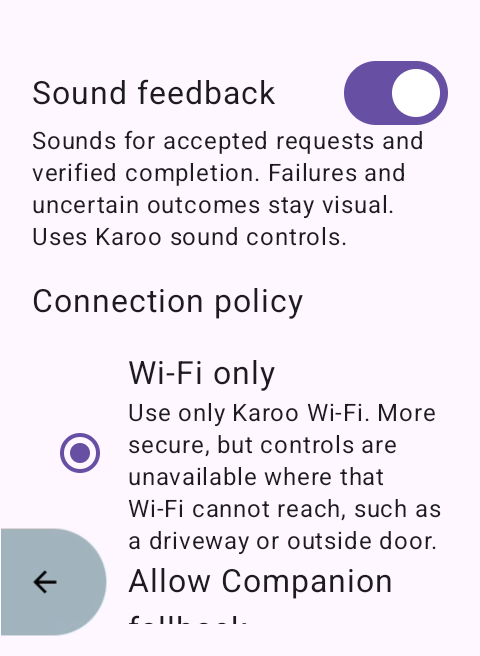
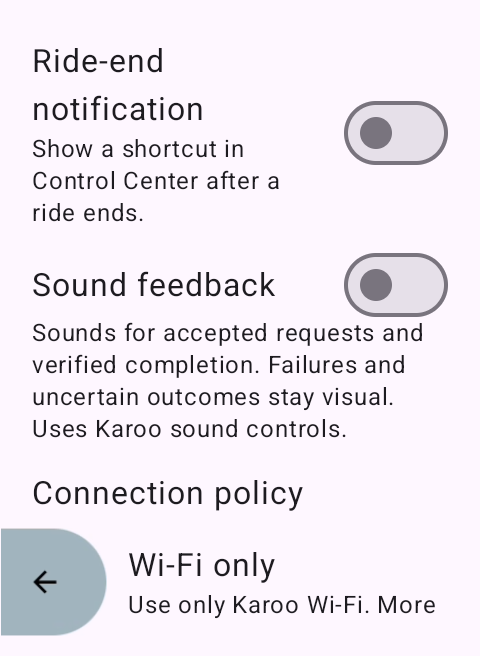
Open Home Assistant controls from a configurable ride-end notification (#32)
## Summary

After a ride ends, Karoo HASS posts a Control Center notification with
an **Open Karoo HASS** action that opens Quick Access with the existing
PIN protection. Manual pauses, auto-pauses, initial idle, and repeated
idle events do not trigger it.

A **Ride-end notification** Settings switch enables or disables future
reminders, defaults to on, and persists across restarts. The SDK's idle
event covers both saved and discarded rides; immediate banner
presentation and notification timing need physical-device validation.

## Screenshots

Updated Settings screen:

![Ride-end notification
setting](https://raw.githubusercontent.com/michalchecinski/karoo-hass-companion/b13cc49/screenshots/emulator-karoo-480x800/settings-connected-app-only.png)

## Verification

- `./gradlew ktlintCheck check assembleDebug` passed.
- Unit tests cover recording/paused-to-idle transitions, auto-pause and
resume, repeated idle events, reconnect resets, and settings defaults
and persistence.
- Verified the Settings layout and persistence of the off choice after
an app restart in an isolated 480×800 emulator.
- Screenshot capture regression checks passed (7 tests).
- Independent subagent review found no actionable issues.
- Physical Karoo testing remains pending: notification delivery, banner
presentation, save/summary timing, and opening Quick Access through the
notification with PIN protection. Device test steps are documented in
`docs/features/ride-end-notification.md`.

## Checklist
[…]

Changed region(s): [[0.0625, 0.061, 0.9375, 0.9451]]

diff --git a/app/src/main/kotlin/com/karoohass/extension/RideEndExtension.kt b/app/src/main/kotlin/com/karoohass/extension/RideEndExtension.kt
@@ -1,0 +1,68 @@
+package com.karoohass.extension
+
+import android.util.Log
+import com.karoohass.BuildConfig
+import com.karoohass.MainActivity
+import com.karoohass.R
+import com.karoohass.core.SettingsStore
+import io.hammerhead.karooext.KarooSystemService
+import io.hammerhead.karooext.extension.KarooExtension
+import io.hammerhead.karooext.models.RideState
+import io.hammerhead.karooext.models.SystemNotification
+import kotlinx.coroutines.CoroutineScope
+import kotlinx.coroutines.Dispatchers
+import kotlinx.coroutines.SupervisorJob
+import kotlinx.coroutines.cancel
+import kotlinx.coroutines.flow.first
+import kotlinx.coroutines.launch
+
+class RideEndExtension : KarooExtension("karoo-hass", BuildConfig.VERSION_NAME) {
+    private lateinit var karooSystem: KarooSystemService
+    private val detector = RideEndDetector()
+    private var consumerId: String? = null
+    private val scope = CoroutineScope(SupervisorJob() + Dispatchers.IO)
+
+    override fun onCreate() {
+        super.onCreate()
+        karooSystem = KarooSystemService(applicationContext)
+        val settingsStore = SettingsStore(applicationContext)
+        // Register once: the SDK retains consumers across service reconnects.
+        consumerId =
+            karooSystem.addConsumer<RideState>(
+                onError = { error ->
+                    detector.reset()
+                    Log.w("RideEndExtension", "Ride state subscription failed: $error")
+                },
+                onComplete = { detector.reset() },
+            ) { state ->
+                if (detector.onState(state)) {
+                    scope.launch {
+                        if (!settingsStore.settings.first().rideEndNotificationEnabled) return@launch
+                        val dispatched =
+                            karooSystem.dispatch(
+                                SystemNotification(
+                                    id = "karoo-hass-ride-ended",
+                                    message = getString(R.string.ride_ended_notification_message),
+                                    header = getString(R.string.app_name),
+                                    action = getString(R.string.ride_ended_notification_action),
+                                    actionIntent = MainActivity.ACTION_OPEN_QUICK_ACCESS,
+                                ),
+                            )
+                        if (!dispatched) Log.w("RideEndExtension", "Ride end notification could not be dispatched")
+                    }
+                }
+            }
+        karooSystem.connect { connected ->
+            if (!connected) detector.reset()
+        }
+    }
+
+    override fun onDestroy() {
+        scope.cancel()
+        consumerId?.let(karooSystem::removeConsumer)
+        consumerId = null
+        detector.reset()
+        karooSystem.disconnect()
+        super.onDestroy()
+    }
+}

diff --git a/app/src/test/kotlin/com/karoohass/extension/RideEndDetectorTest.kt b/app/src/test/kotlin/com/karoohass/extension/RideEndDetectorTest.kt
@@ -1,0 +1,51 @@
+package com.karoohass.extension
+
+import io.hammerhead.karooext.models.RideState
+import org.junit.Assert.assertFalse
+import org.junit.Assert.assertTrue
+import org.junit.Test
+
+class RideEndDetectorTest {
+    private val detector = RideEndDetector()
+
+    @Test
+    fun `startup and repeated idle never announce a ride`() {
+        repeat(3) { assertFalse(detector.onState(RideState.Idle)) }
+    }
+
+    @Test
+    fun `manual pause auto pause and resume do not announce a ride`() {
+        assertFalse(detector.onState(RideState.Recording))
+        assertFalse(detector.onState(RideState.Paused(auto = true)))
+        assertFalse(detector.onState(RideState.Recording))
+        assertFalse(detector.onState(RideState.Paused(auto = false)))
+        assertFalse(detector.onState(RideState.Recording))
+        assertTrue(detector.onState(RideState.Idle))
+        assertFalse(detector.onState(RideState.Idle))
+    }
+
+    @Test
+    fun `finishing from paused announces once for each ride`() {
+        repeat(2) {
+            assertFalse(detector.onState(RideState.Recording))
+            assertFalse(detector.onState(RideState.Paused(auto = false)))
+            assertTrue(detector.onState(RideState.Idle))
+            assertFalse(detector.onState(RideState.Idle))
+        }
+    }
+
+    @Test
+    fun `extension can join an already paused ride`() {
+        assertFalse(detector.onState(RideState.Paused(auto = true)))
+        assertTrue(detector.onState(RideState.Idle))
+    }
+
+    @Test
+    fun `reconnect at idle does not announce an old ride`() {
+        detector.onState(RideState.Recording)
+        detector.reset()
+        assertFalse(detector.onState(RideState.Idle))
+        assertFalse(detector.onState(RideState.Recording))
+        assertTrue(detector.onState(RideState.Idle))
+    }
+}

diff --git a/app/src/main/kotlin/com/karoohass/screens/MainScreen.kt b/app/src/main/kotlin/com/karoohass/screens/MainScreen.kt
@@ -375,6 +375,26 @@ private fun HomeAssistantIcon(
             }
         }
         if (state.settings.onboardingStep == OnboardingStep.COMPLETE) {
+            item {
+                Row(
+                    Modifier.fillMaxWidth().toggleable(
+                        value = state.settings.rideEndNotificationEnabled,
+                        role = androidx.compose.ui.semantics.Role.Switch,
+                        onValueChange = model::saveRideEndNotification,
+                    ),
+                    verticalAlignment = Alignment.CenterVertically,
+                    horizontalArrangement = Arrangement.spacedBy(12.dp),
+                ) {
+                    Column(Modifier.weight(1f)) {
+                        Text(stringResource(R.string.ride_ended_notification_setting))
+                        Text(stringResource(R.string.ride_ended_notification_description), style = MaterialTheme.typography.bodySmall)
+                    }
+                    androidx.compose.material3.Switch(
+                        checked = state.settings.rideEndNotificationEnabled,
+                        onCheckedChange = null,
+                    )
+                }
+            }
             item { SoundFeedbackSetting(state.settings.soundFeedbackEnabled, model::saveSoundFeedback) }
             item { Text("Connection policy") }
             item {

diff --git a/app/src/main/kotlin/com/karoohass/MainActivity.kt b/app/src/main/kotlin/com/karoohass/MainActivity.kt
@@ -12,6 +12,10 @@ import com.karoohass.screens.MainScreen
 import com.karoohass.theme.AppTheme
 
 class MainActivity : ComponentActivity() {
+    companion object {
+        const val ACTION_OPEN_QUICK_ACCESS = "com.karoohass.OPEN_QUICK_ACCESS"
+    }
+
     private val model by viewModels<MainViewModel>()
 
     override fun onCreate(savedInstanceState: Bundle?) {
@@ -23,12 +27,14 @@ class MainActivity : ComponentActivity() {
             }
         }
         handleOAuthCallbackError(intent)
+        handleQuickAccessIntent(intent)
     }
 
     override fun onNewIntent(intent: Intent) {
         super.onNewIntent(intent)
         setIntent(intent)
         handleOAuthCallbackError(intent)
+        handleQuickAccessIntent(intent)
     }
 
     override fun onResume() {
@@ -41,6 +47,14 @@ class MainActivity : ComponentActivity() {
     override fun onStop() {
         model.foregroundChanged(false)
         super.onStop()
+    }
+
+    private fun handleQuickAccessIntent(intent: Intent) {
+        if (intent.action == ACTION_OPEN_QUICK_ACCESS) {
+            // Retain the normal whole-app PIN and onboarding gates.
+            model.openQuickAccess()
+            intent.action = null
+        }
     }
 
     private fun handleOAuthCallbackError(intent: Intent) {

diff --git a/app/src/main/kotlin/com/karoohass/MainViewModel.kt b/app/src/main/kotlin/com/karoohass/MainViewModel.kt
@@ -279,6 +279,17 @@ class MainViewModel(application: Application) : AndroidViewModel(application) {
 
     fun continueOnboarding() = openOnboardingStep(state.value.settings.onboardingStep)
 
+    fun openQuickAccess() {
+        viewModelScope.launch {
+            val settings = rawSettings.first()
+            if (settings.onboardingStep == OnboardingStep.COMPLETE) {
+                home()
+            } else {
+                openOnboardingStep(settings.onboardingStep)
+            }
+        }
+    }
+
     fun home() {
         screen.value = Screen.HOME
         pending.value = null
@@ -343,6 +354,11 @@ class MainViewModel(application: Application) : AndroidViewModel(application) {
         message.value = getApplication<Application>().getString(R.string.oauth_callback_incomplete)
         screen.value = Screen.SETUP
     }
+
+    fun saveRideEndNotification(enabled: Boolean) =
+        viewModelScope.launch {
+            settingsStore.update { it.copy(rideEndNotificationEnabled = enabled) }
+        }
 
     fun savePolicy(policy: ConnectionPolicy) =
         viewModelScope.launch {

diff --git a/app/src/main/kotlin/com/karoohass/core/SettingsStore.kt b/app/src/main/kotlin/com/karoohass/core/SettingsStore.kt
@@ -31,6 +31,7 @@ internal fun decodeSettings(value: String?): AppSettings =
             origin = root.optString("origin").takeIf { it.isNotBlank() },
             connectionPolicy = ConnectionPolicy.valueOf(root.optString("policy", ConnectionPolicy.WIFI_ONLY.name)),
             pinMode = PinMode.valueOf(root.optString("pinMode", PinMode.DISABLED.name)),
+            rideEndNotificationEnabled = root.optBoolean("rideEndNotificationEnabled", true),
             soundFeedbackEnabled = root.optBoolean("soundFeedbackEnabled", false),
             actions =
                 List(actions.length()) { i ->
@@ -67,6 +68,7 @@ internal fun encodeSettings(settings: AppSettings) =
         put("pinMode", settings.pinMode.name)
         put("soundFeedbackEnabled", settings.soundFeedbackEnabled)
         put("onboardingStep", settings.onboardingStep.name)
+        put("rideEndNotificationEnabled", settings.rideEndNotificationEnabled)
         put(
             "actions",
             JSONArray().apply {

diff --git a/app/src/test/kotlin/com/karoohass/core/SettingsCodecTest.kt b/app/src/test/kotlin/com/karoohass/core/SettingsCodecTest.kt
@@ -5,6 +5,20 @@ import org.junit.Assert.assertNull
 import org.junit.Test
 
 class SettingsCodecTest {
+    @Test fun `ride notification defaults on for new and older settings`() {
+        assertEquals(true, decodeSettings(null).rideEndNotificationEnabled)
+        assertEquals(true, decodeSettings("{}").rideEndNotificationEnabled)
+    }
+
+    @Test fun `ride notification choice survives settings updates`() {
+        for (enabled in listOf(false, true)) {
+            val settings = AppSettings(rideEndNotificationEnabled = enabled)
+            val decoded = decodeSettings(encodeSettings(settings).toString())
+            val updated = decoded.copy(connectionPolicy = ConnectionPolicy.ALLOW_COMPANION_FALLBACK)
+            assertEquals(enabled, decodeSettings(encodeSettings(updated).toString()).rideEndNotificationEnabled)
+        }
+    }
+
     @Test fun `older saved actions decode without a position target`() {
         val settings =
             decodeSettings(

diff --git a/app/src/main/kotlin/com/karoohass/extension/RideEndDetector.kt b/app/src/main/kotlin/com/karoohass/extension/RideEndDetector.kt
@@ -1,0 +1,26 @@
+package com.karoohass.extension
+
+import io.hammerhead.karooext.models.RideState
+
+internal class RideEndDetector {
+    private var rideObserved = false
+
+    @Synchronized
+    fun onState(state: RideState): Boolean =
+        when (state) {
+            is RideState.Recording, is RideState.Paused -> {
+                rideObserved = true
+                false
+            }
+            is RideState.Idle -> {
+                val ended = rideObserved
+                rideObserved = false
+                ended
+            }
+        }
+
+    @Synchronized
+    fun reset() {
+        rideObserved = false
+    }
+}

diff --git a/app/src/main/kotlin/com/karoohass/core/Models.kt b/app/src/main/kotlin/com/karoohass/core/Models.kt
@@ -77,6 +77,7 @@ data class AppSettings(
     val pinMode: PinMode = PinMode.DISABLED,
     val actions: List<QuickAccessAction> = emptyList(),
     val onboardingStep: OnboardingStep = OnboardingStep.CONNECT,
+    val rideEndNotificationEnabled: Boolean = true,
     val soundFeedbackEnabled: Boolean = false,
 )
 

diff --git a/docs/features/ride-end-notification.md b/docs/features/ride-end-notification.md
@@ -1,0 +1,63 @@
+# Ride-end notification
+
+## Behavior
+
+Karoo HASS registers a Karoo extension service that observes the SDK's ride
+state even while the app UI is closed. After an observed recording or paused
+ride changes to `RideState.Idle`, it posts a Karoo `SystemNotification`:
+
+- Header: **Karoo HASS**
+- Message: **Ride finished. Open your Home Assistant controls.**
+- Action: **Open Karoo HASS**
+
+The action opens Quick Access using the normal onboarding, connectivity, and
+PIN checks. Posting or opening the notification does not execute any Home
+Assistant action. **Settings → Ride-end notification** turns future ride-end
+notifications on or off. It defaults to on for new and existing installations,
+and the saved choice survives app and extension restarts. The extension checks
+the saved setting when a ride ends, so changing it requires no restart.
+Turning it off does not remove a notification already posted in Control Center;
+that entry can be dismissed there.
+
+Manual pauses, auto-pauses, stopping at traffic lights, and resuming never
+trigger the notification. Initial idle and repeated idle updates are ignored.
+A stable notification ID updates the existing entry instead of accumulating
+one entry per ride.
+
+## Platform limits
+
+The supported destination is Control Center's notifications panel. A brief
+top-of-screen banner is not guaranteed and must be checked on a physical Karoo.
+This uses `SystemNotification`, not Firefly's `InRideAlert`.
+
+The SDK defines idle as recording not started or already finished. It does not
+distinguish saving from discarding a ride in this event, so ending either way
+can produce the notification. This is an end-of-recording reminder, not proof
+that a ride was saved or uploaded.
+
+Karoo must discover and run the extension. A service restart or lost SDK
+connection clears the observed ride to avoid stale notifications; a ride that
+finishes while disconnected can be missed. Reconnecting during recording or
+pause arms detection again.
+
+## Device test
+
+1. Install the APK and confirm Karoo HASS is enabled in Karoo's extensions.
+2. With no ride running, open and close the app: no ride-end notification.
+3. Start a ride and leave Karoo HASS closed.
+4. Manually pause, resume, and test auto-pause: no ride-end notification.
+5. Finish the ride: check for an immediate banner, then check the notification
+   in Control Center. Note when it appears relative to the save/summary flow.
+6. Tap **Open Karoo HASS**: Quick Access opens. Repeat with whole-app PIN
+   enabled and confirm the PIN is required before controls become available.
+7. Finish another ride: verify the notification updates and still opens the app.
+8. Turn **Ride-end notification** off in Settings, close the app, and finish
+   another ride: no new notification. Restart the app and verify the switch is
+   still off, then turn it on and finish a new ride to restore notifications.
+
+Physical-device notification presentation and end-of-ride timing remain to
+be validated.
+
+The Settings switch layout and persistence of the off choice after an app
+restart were verified on an isolated 480×800 emulator. Settings codec tests
+cover the default for existing installations and persistence of both choices.

diff --git a/docs/current-implementation.md b/docs/current-implementation.md
@@ -89,6 +89,18 @@ useful record of the intended scope but does not capture all later UX changes.
 - Configured actions store the Home Assistant friendly name and icon and are
   refreshed when discovery finds a newer entity definition.
 
+## Ride-end shortcut
+
+- A Karoo extension service observes ride state while the app UI is closed.
+- After a recording or paused ride ends, a Control Center notification offers
+  **Open Karoo HASS**, opening Quick Access with the normal PIN protection.
+- Manual pauses, auto-pauses, and initial idle do not trigger a notification.
+- **Settings → Ride-end notification** enables or disables future reminders.
+  It defaults to on and persists across restarts.
+- Immediate banner presentation requires physical-device validation. See
+  [Ride-end notification](features/ride-end-notification.md) for platform limits
+  and the device test procedure.
+
 ## Managing actions
 
 - The Settings gear in the upper-right opens general settings.

diff --git a/docs/app-idea.md b/docs/app-idea.md
@@ -161,7 +161,9 @@ The product is not intended to be:
 - a Home Assistant server-management client;
 - a background automation or delayed-action system;
 - a project-operated cloud relay or hosted smart-home service; or
-- a ride data field, map layer, or background tracking extension.
+- a ride data field, map layer, or background tracking extension. A lightweight
+  ride-state listener may provide a notification shortcut after a ride ends;
+  it does not collect ride telemetry or execute home actions automatically.
 
 ## Platform constraints
 
